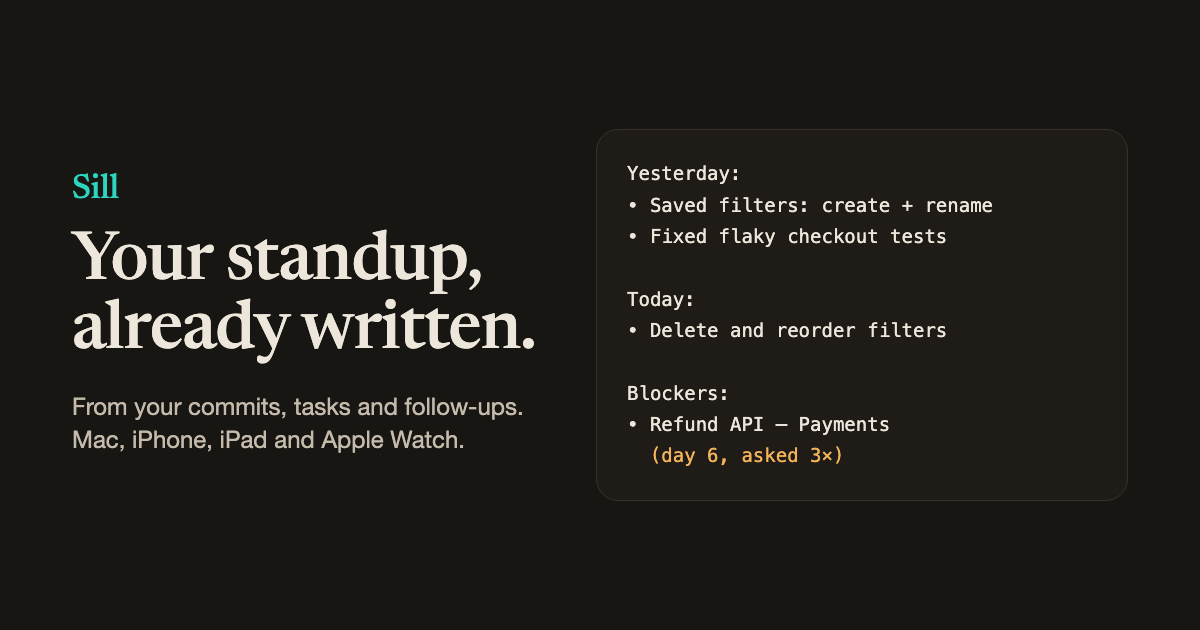
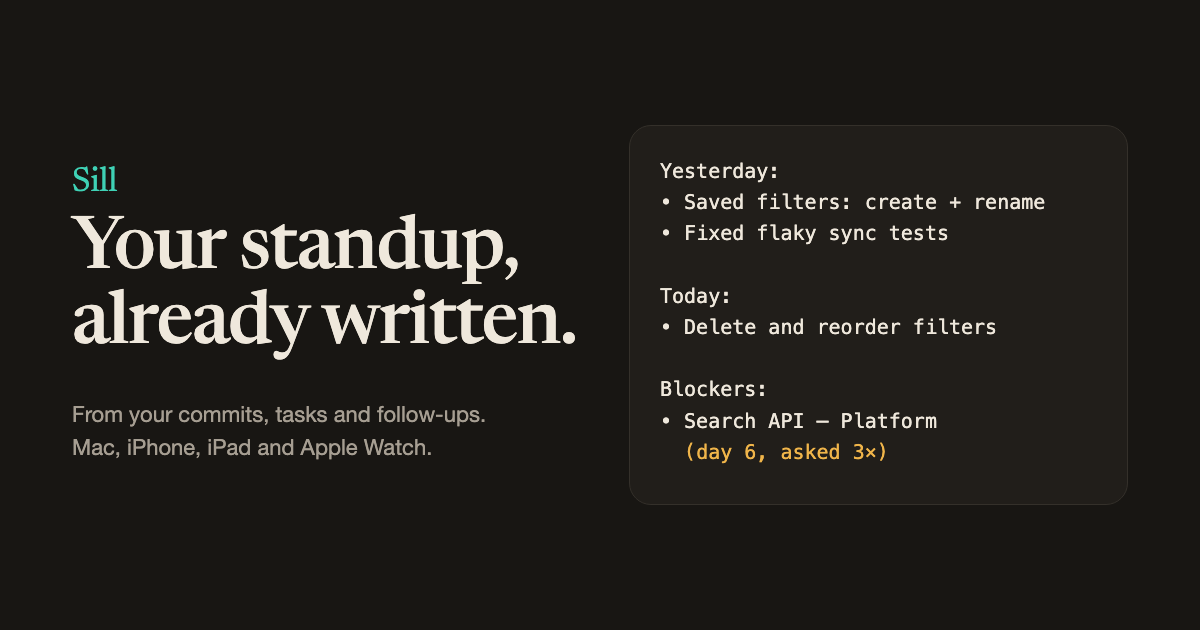
Terms: add Sill Pro and subscription terms; neutral examples
- terms.html: Sill Pro section (yearly with 14-day trial, monthly,
  lifetime; founding members free until 30 June 2027) and the
  auto-renew / cancel / refund terms Apple expects for subscriptions.
- Examples on index, standup-examples, follow-up-templates and
  git-standup, plus og.png, now use a neutral search API story
  instead of refunds and payments.

diff --git a/follow-up-templates.html b/follow-up-templates.html
@@ -28,39 +28,39 @@
 
 <h2>Before the first message</h2>
 <ul>
-  <li><strong>Ask for one concrete thing.</strong> "The refund endpoint's request and response shape" beats "an update on the API".</li>
+  <li><strong>Ask for one concrete thing.</strong> "The search endpoint's request and response shape" beats "an update on the API".</li>
   <li><strong>Give a date and a reason.</strong> "By Thursday, so we can make the 2.4 release" lets them prioritize.</li>
   <li><strong>Make it easy.</strong> Link the ticket, offer a draft, or suggest a 10-minute call.</li>
 </ul>
 
 <h2>The first ask (day 0)</h2>
-<div class="standup">Hi Ana! We're building the refund screen for 2.4 and need the refund
+<div class="standup">Hi Ana! We're building the search screen for 2.4 and need the search
 endpoint's request/response shape. Could you share it by Thursday?
-A rough draft is fine; ticket: PAY-142. Thank you!</div>
+A rough draft is fine; ticket: APP-142. Thank you!</div>
 
 <h2>The first nudge (day 2)</h2>
 <p>Short, friendly, and it assumes they're busy, not ignoring you.</p>
-<div class="standup">Hi Ana, bumping this in case it got buried: the refund endpoint shape
-for PAY-142. Even a rough draft would unblock us. Happy to jump on a
+<div class="standup">Hi Ana, bumping this in case it got buried: the search endpoint shape
+for APP-142. Even a rough draft would unblock us. Happy to jump on a
 quick call if that's easier.</div>
 
 <h2>The second nudge (day 4 or 5)</h2>
 <p>Add the cost of waiting, and offer to do the work yourself.</p>
-<div class="standup">Hi Ana, following up on PAY-142 again. Without the refund shape we'll
-miss Thursday's 2.4 cut and refunds slip to 2.5. If it helps, I can
-write a draft contract from the existing charge endpoint for you to
+<div class="standup">Hi Ana, following up on APP-142 again. Without the search shape we'll
+miss Thursday's 2.4 cut and search slips to 2.5. If it helps, I can
+write a draft contract from the existing filters endpoint for you to
 correct. Would that work?</div>
 
 <h2>Escalating (day 7 or later)</h2>
 <p>Escalate to a shared channel or a lead, not over someone's head in private. Stick to facts, with no blame, and ask for help finding an owner.</p>
-<div class="standup">Hi team, we're blocked on the refund API contract (PAY-142) for the 2.4
-release. I asked Ana on the 3rd, 5th and 8th; I know Payments is
+<div class="standup">Hi team, we're blocked on the search API contract (APP-142) for the 2.4
+release. I asked Ana on the 3rd, 5th and 8th; I know Platform is
 stretched. Could someone help us find an owner, or tell us if we
-should plan refunds for 2.5 instead?</div>
+should plan search for 2.5 instead?</div>
 
 <h2>In standup</h2>
 <div class="standup">Blockers:
-• Refund API contract — waiting on Payments <span class="receipt">(day 6, asked 3×)</span>.
+• Search API contract — waiting on Platform <span class="receipt">(day 6, asked 3×)</span>.
   Can someone help me find the right owner?</div>
 <p>"Day 6, asked 3×" does two things. It tells your team this isn't new, and it shows you've done your part. A slow dependency is a team problem, not your problem.</p>
 

diff --git a/terms.html b/terms.html
@@ -18,7 +18,7 @@
 <main class="page">
 <div class="label">Terms of Use</div>
 <h1>Short, and in plain language.</h1>
-<p class="updated">Last updated 21 October 2026.</p>
+<p class="updated">Last updated 6 November 2026.</p>
 <p>By using Sill, you agree to these terms.</p>
 <h2>Using Sill</h2>
 <p>Sill is provided for keeping track of your own work, on devices you own or control.</p>
@@ -26,6 +26,18 @@
 <p>Your projects, tasks, notes and blockers belong to you. Sill stores them on your device and in your private iCloud; you can export or delete them at any time.</p>
 <h2>What you share is up to you</h2>
 <p>Sill writes standups and worklogs from your commits and notes. Check what you copy before you paste it anywhere, especially into shared channels — repository names and commit messages can reveal more than you intend.</p>
+<h2>Sill Pro</h2>
+<p>Sill is free to use. Sill Pro is an optional upgrade, sold through the App Store as a yearly subscription (with a 14-day free trial for new subscribers), a monthly subscription, or a one-time Lifetime purchase. The price is shown in the app before you buy and can differ by country.</p>
+<p>If you started using Sill before version 1.1, you're a founding member: Sill Pro is free for you until 30 June 2027.</p>
+<h2>Subscriptions and free trials</h2>
+<ul>
+  <li>Payment is charged to your Apple Account when you confirm the purchase, or when the free trial ends.</li>
+  <li>A subscription renews automatically unless you turn off auto-renew at least 24 hours before the end of the current period. Your account is charged for the renewal within the 24 hours before the period ends.</li>
+  <li>Cancel the free trial at least 24 hours before it ends and you won't be charged.</li>
+  <li>Manage or cancel in your Apple Account settings: on iPhone or iPad, Settings › your name › Subscriptions; on a Mac, App Store › your name › Account Settings › Subscriptions. Deleting the app doesn't cancel a subscription.</li>
+  <li>If you buy a subscription during a free trial, the rest of the trial ends.</li>
+  <li>Purchases and refunds are handled by Apple. To ask for a refund, go to <a href="https://reportaproblem.apple.com">reportaproblem.apple.com</a>.</li>
+</ul>
 <h2>No warranty</h2>
 <p>Sill is provided "as is", without warranties of any kind. We work to keep it accurate and reliable, but cannot guarantee it will be error-free or uninterrupted.</p>
 <h2>Limitation of liability</h2>

diff --git a/standup-examples.html b/standup-examples.html
@@ -30,7 +30,7 @@
 <ul>
   <li><strong>Outcomes, not activity.</strong> "Search returns results in under 200 ms", not "worked on search".</li>
   <li><strong>Three lines per section, at most.</strong> Anything longer belongs in a ticket.</li>
-  <li><strong>Blockers name a person or team, and a date.</strong> "Waiting on Payments for the refund API (asked Tue and Thu)" gets a reply. "Blocked on backend" doesn't.</li>
+  <li><strong>Blockers name a person or team, and a date.</strong> "Waiting on Platform for the search API (asked Tue and Thu)" gets a reply. "Blocked on backend" doesn't.</li>
   <li><strong>Plain "•" bullets</strong> paste cleanly into Slack, Teams, Jira and email.</li>
 </ul>
 
@@ -47,8 +47,8 @@ Blockers:
 
 <h2>2. Chasing a bug</h2>
 <div class="standup">Yesterday:
-• Reproduced the duplicate-order bug: two taps within 300 ms on slow networks
-• Ruled out the payment SDK; it's our retry logic
+• Reproduced the duplicate-save bug: two taps within 300 ms on slow networks
+• Ruled out the network SDK; it's our retry logic
 
 Today:
 • Fix with an idempotency key, add a test for the double tap
@@ -58,14 +58,14 @@ Blockers:
 
 <h2>3. Blocked by another team</h2>
 <div class="standup">Yesterday:
-• Refund screen done against mock data
-• Followed up with Payments on the refund API contract
+• Search screen done against mock data
+• Followed up with Platform on the search API contract
 
 Today:
 • Error states and empty states while I wait
 
 Blockers:
-• Refund API contract — waiting on Payments <span class="receipt">(day 6, asked 3×)</span>. Can someone help me find the right owner?</div>
+• Search API contract — waiting on Platform <span class="receipt">(day 6, asked 3×)</span>. Can someone help me find the right owner?</div>
 
 <h2>4. A day of meetings</h2>
 <div class="standup">Yesterday:
@@ -81,7 +81,7 @@ Blockers:
 <h2>5. Mostly code review</h2>
 <div class="standup">Yesterday:
 • Reviewed 5 PRs, including the auth refactor (approved with two fixes)
-• Paired with Sam on the flaky checkout tests; now passing 50/50 runs
+• Paired with Sam on the flaky sync tests; now passing 50/50 runs
 
 Today:
 • My own PR for search ranking

diff --git a/git-standup.html b/git-standup.html
@@ -53,8 +53,8 @@ done</div>
 <h2>From commit messages to a standup</h2>
 <p>Commit subjects are written for code review, not for your team. Before you paste:</p>
 <ul>
-  <li><strong>Lead with the outcome.</strong> "Checkout now retries failed payments", not "add retry wrapper".</li>
-  <li><strong>Merge the small ones.</strong> Five "fix test" commits are one line: "Fixed the flaky checkout tests."</li>
+  <li><strong>Lead with the outcome.</strong> "Sync now retries failed uploads", not "add retry wrapper".</li>
+  <li><strong>Merge the small ones.</strong> Five "fix test" commits are one line: "Fixed the flaky sync tests."</li>
   <li><strong>Say what's next.</strong> Today is a plan, not a commit, so write it yourself.</li>
   <li><strong>Name your blockers.</strong> Who you're waiting on, since when, and how many times you've asked.</li>
 </ul>

diff --git a/index.html b/index.html
@@ -34,7 +34,7 @@ Today:
 * Plan 1.3 onboarding
 
 Blockers:
-* Refund API contract — waiting on Payments <span class="receipt">(day 6, asked 3×)</span></div>
+* Search API contract — waiting on Platform <span class="receipt">(day 6, asked 3×)</span></div>
 <h2>Receipts for every blocker</h2>
 <p>Track what you're waiting on — an API, a design, a review, access — and log every follow-up on Slack, email, chat, a call or at standup. Sill shows how long you've waited and how many times you asked, and the receipt travels with your standup. A slow dependency is never on you.</p>
 <h2>Your day, writing itself down</h2>
